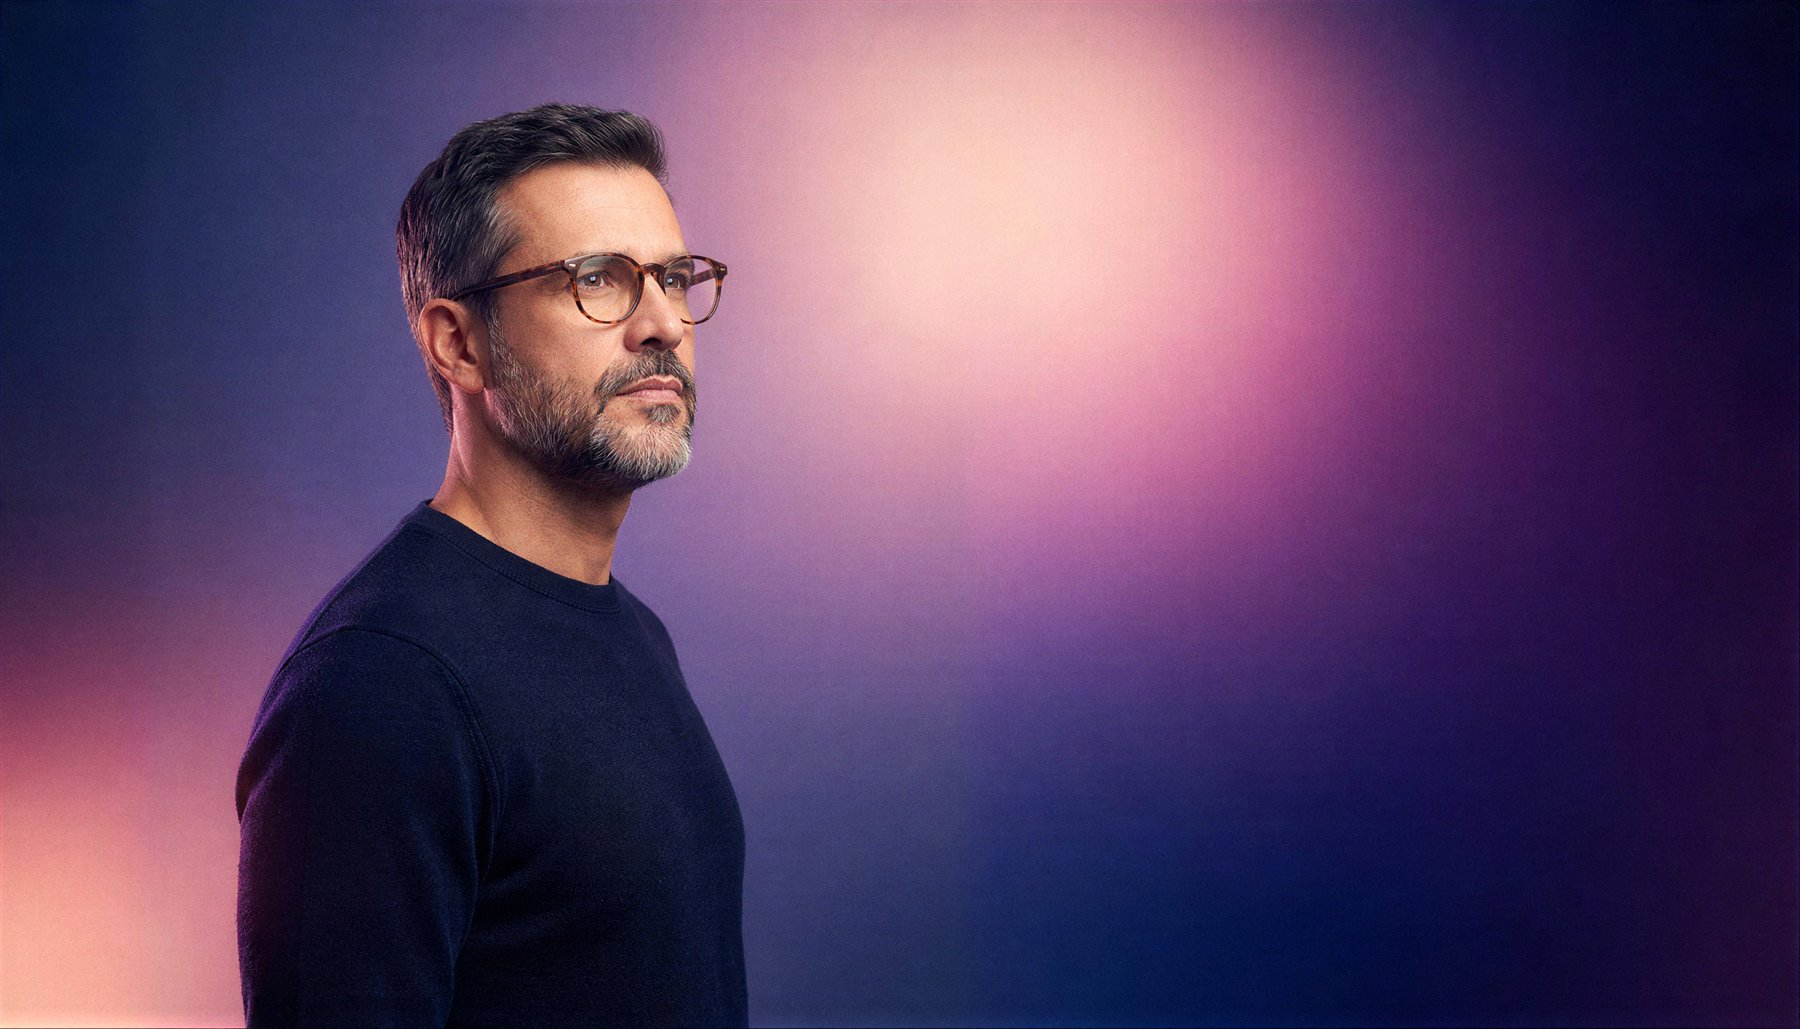
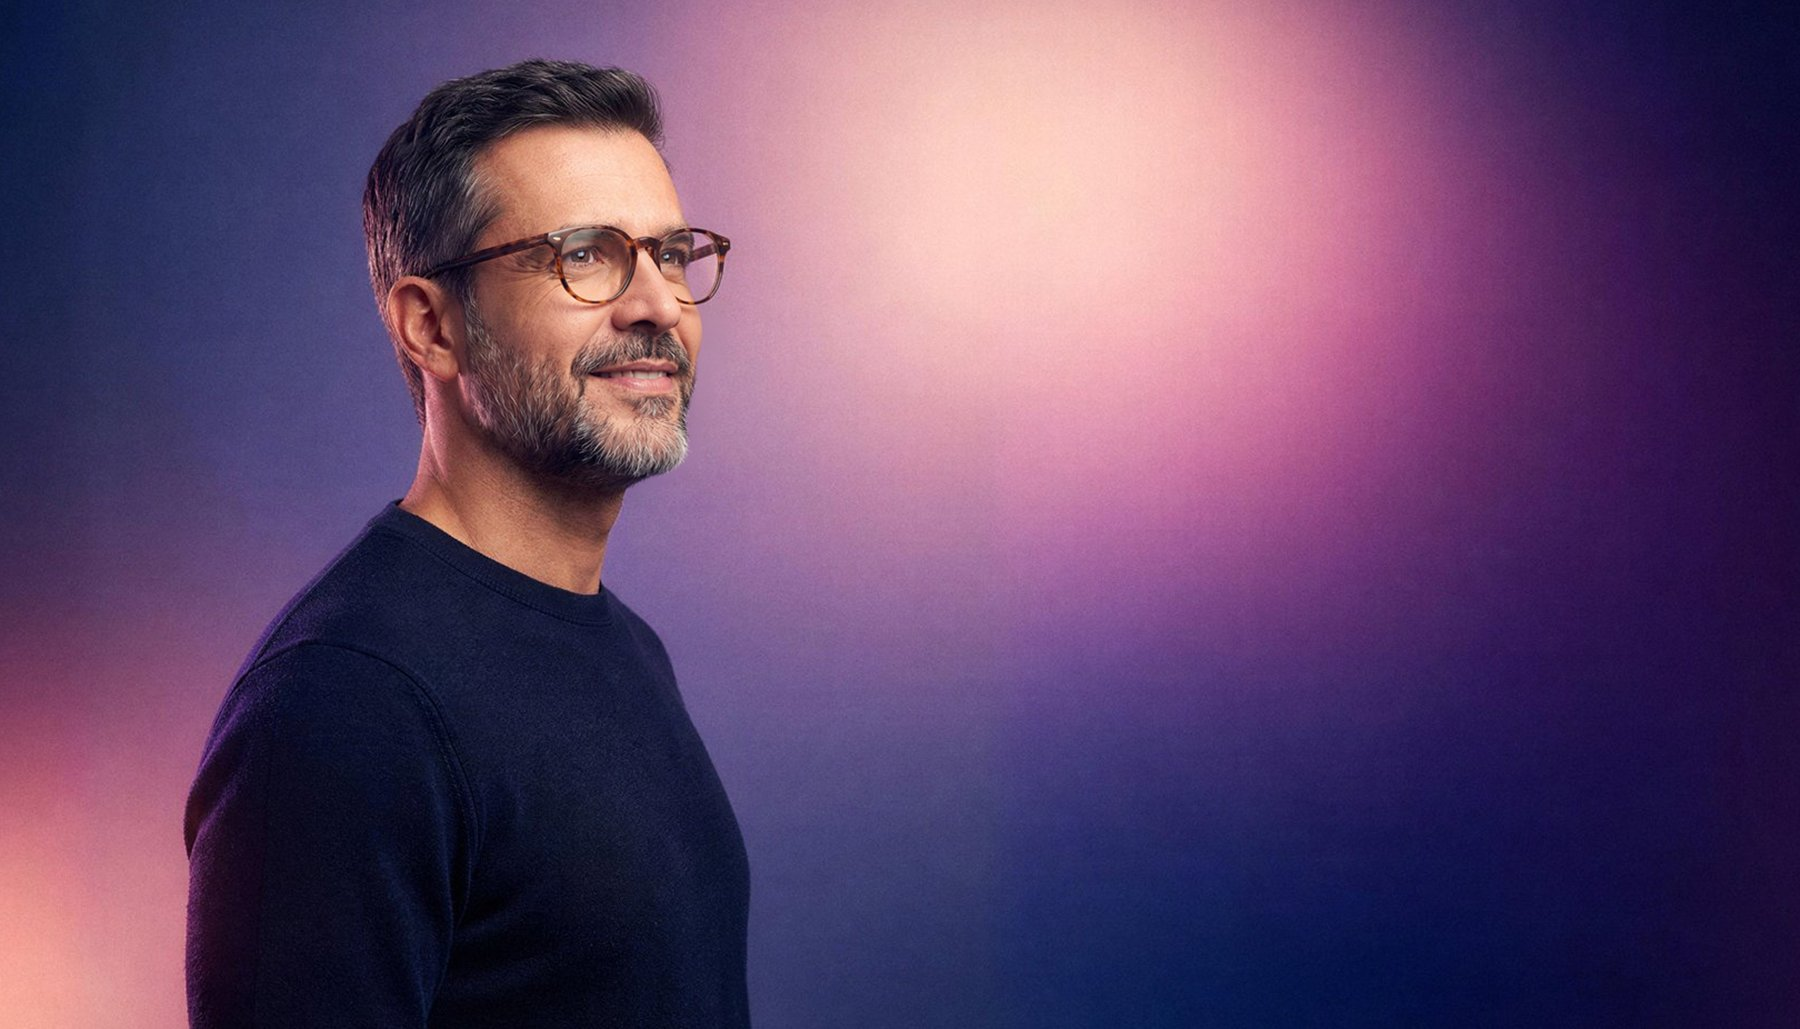
Formações: hero com expressão mais leve (sorriso) e enquadramento um pouco mais fechado

diff --git a/formacoes.html b/formacoes.html
@@ -63,7 +63,7 @@
         </div>
       </div>
     </div>
-    <div class="m-photo" style="background-image:url('assets/img/hero-asp-form.jpg?v=3');background-position:22% 50%" role="img" aria-label="Profissional olhando para o alto, confiante, sobre fundo em degradê roxo"><span class="tag">Do primeiro cargo à liderança</span></div>
+    <div class="m-photo" style="background-image:url('assets/img/hero-asp-form.jpg?v=4');background-position:22% 50%" role="img" aria-label="Profissional sorrindo, olhando para o alto, confiante, sobre fundo em degradê roxo"><span class="tag">Do primeiro cargo à liderança</span></div>
     <div class="m-tile">
       <span class="ic ic-tl" style="left:0;top:0;--c:#000;--r:40px" aria-hidden="true"></span>
       <div class="big">+386h<small>de conteúdo<br>nas formações</small></div>
